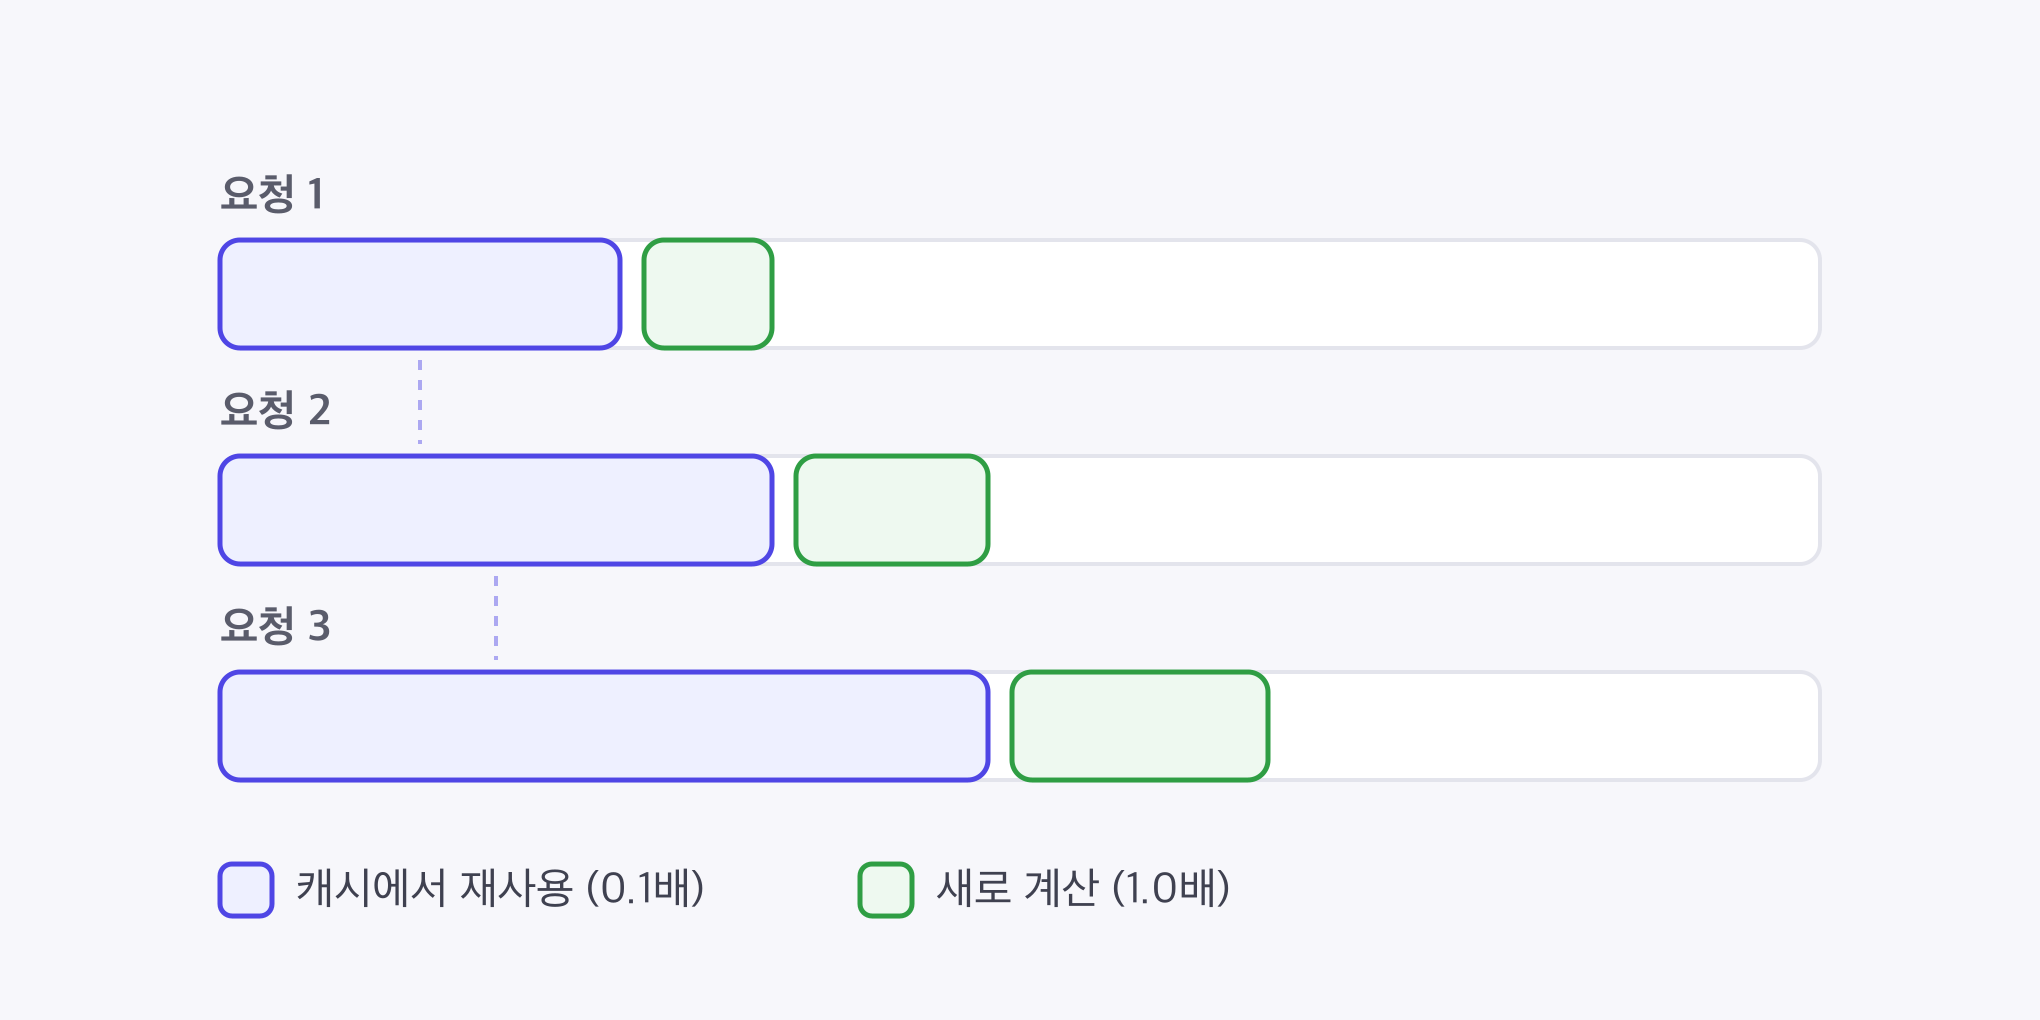
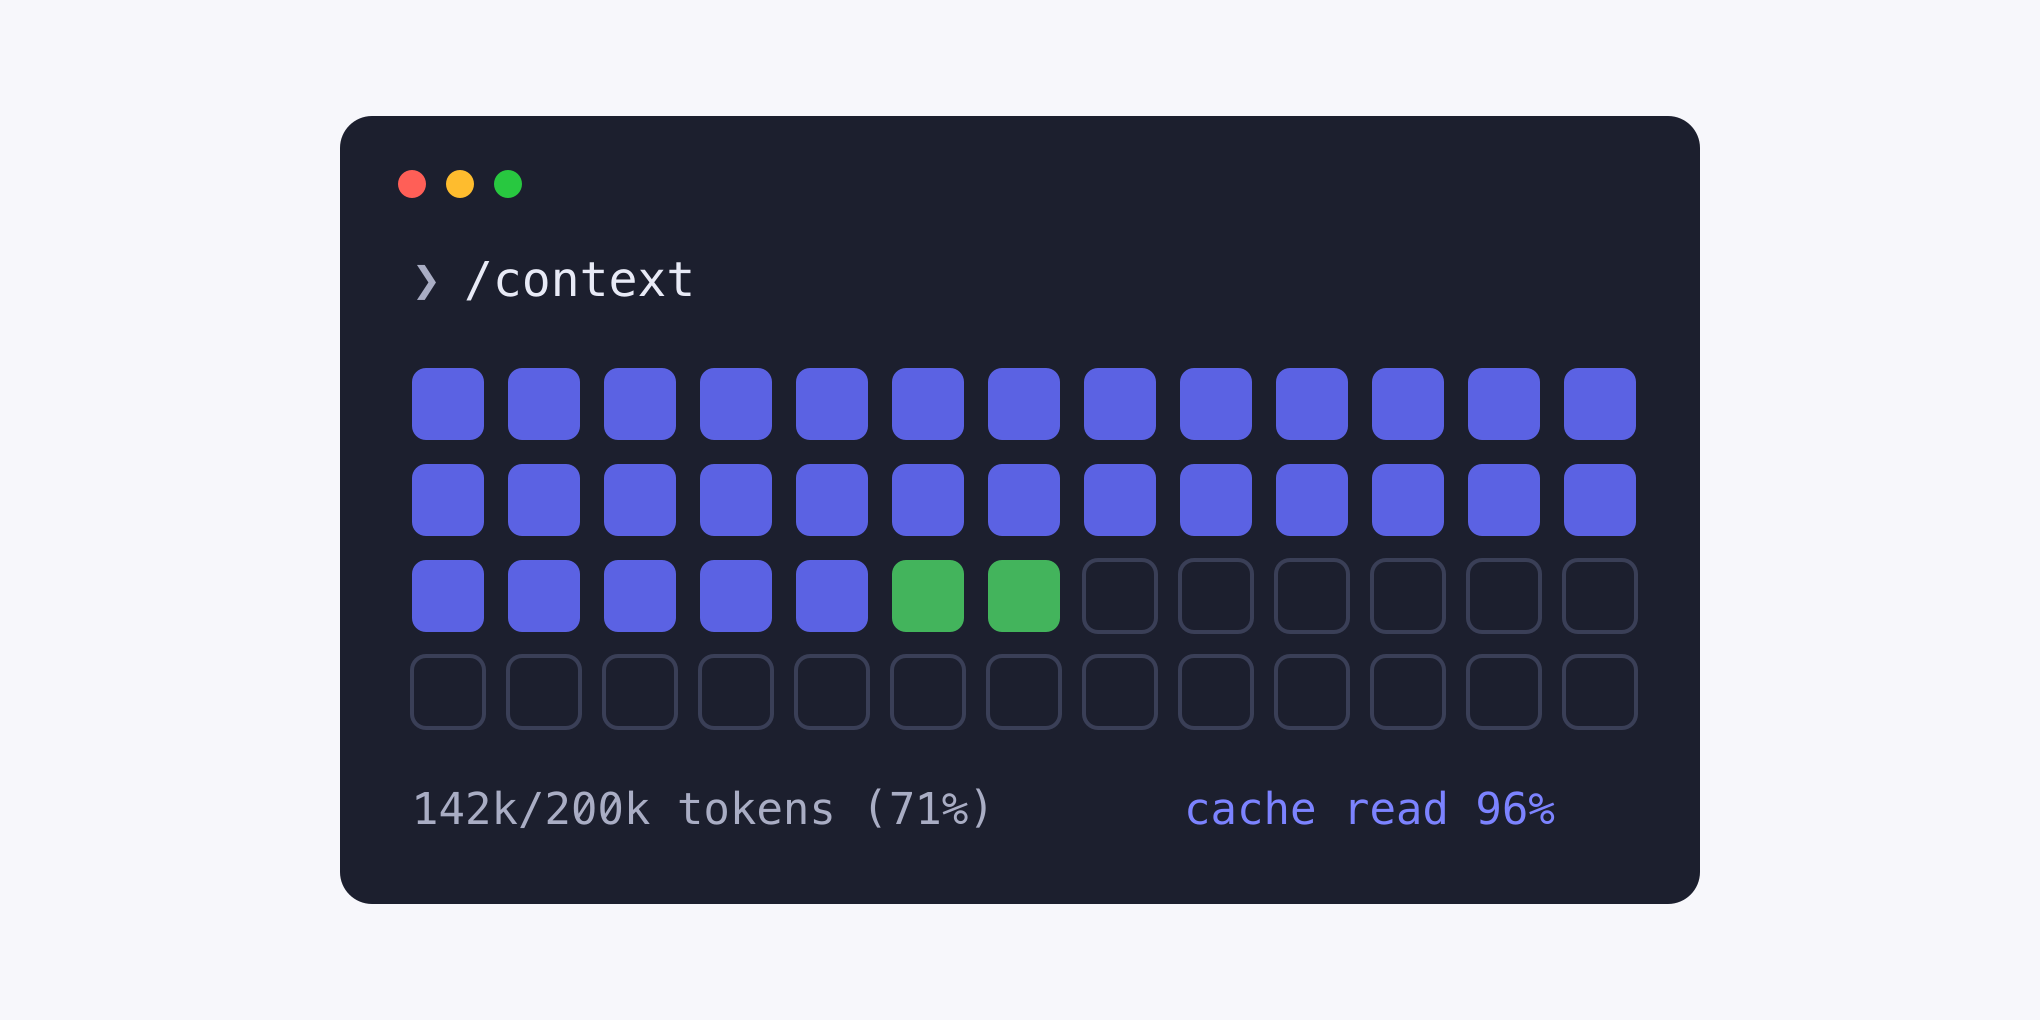
히어로를 /context 터미널 장면으로 재설계, prefix 명명 문장 강조

diff --git a/src/content/blog/claude-code-prompt-caching.md b/src/content/blog/claude-code-prompt-caching.md
@@ -68,7 +68,7 @@ How Claude Code works 문서의 예시가 이 구조를 보여줍니다. "실패
 
 입력은 한 번인데 요청은 여러 번입니다. 짧은 프롬프트 하나가 세션 한도의 상당 부분을 소진하는 현상이 여기서 나옵니다. 에이전트이기 때문입니다.
 
-같은 이유로 캐싱이 중요해집니다. 요청이 이만큼 자주 나가는데 매번 전체를 재계산하면 감당하기 어렵습니다. 그래서 서버는 매 요청에서 직전 요청과 똑같은 앞부분을 찾아, 그 부분은 다시 계산하지 않고 재사용합니다. 캐싱의 기준이 되는 이 앞부분을 prefix라고 부릅니다.
+같은 이유로 캐싱이 중요해집니다. 요청이 이만큼 자주 나가는데 매번 전체를 재계산하면 감당하기 어렵습니다. 그래서 서버는 매 요청에서 직전 요청과 똑같은 앞부분을 찾아, 그 부분은 다시 계산하지 않고 재사용합니다. **캐싱의 기준이 되는 이 앞부분을 prefix라고 부릅니다**.
 
 ## prefix란?
 
